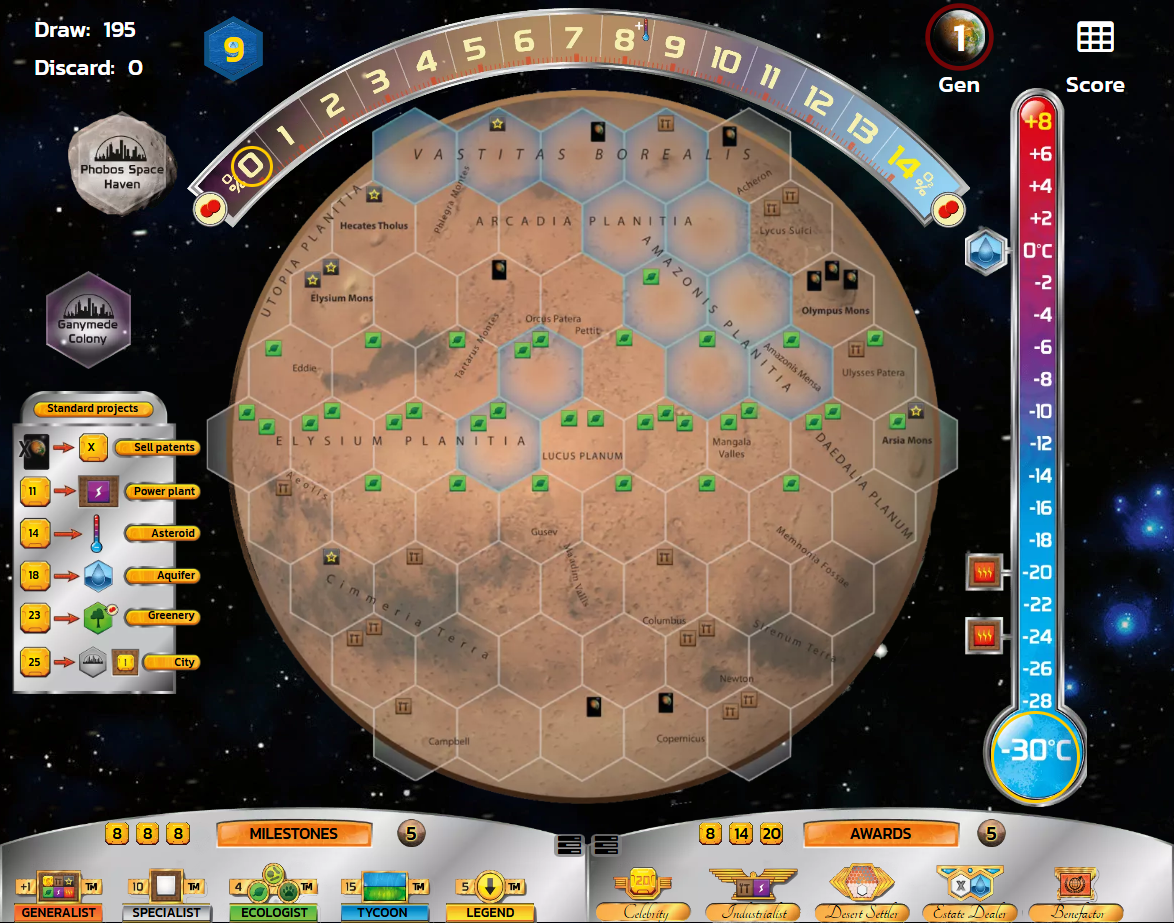
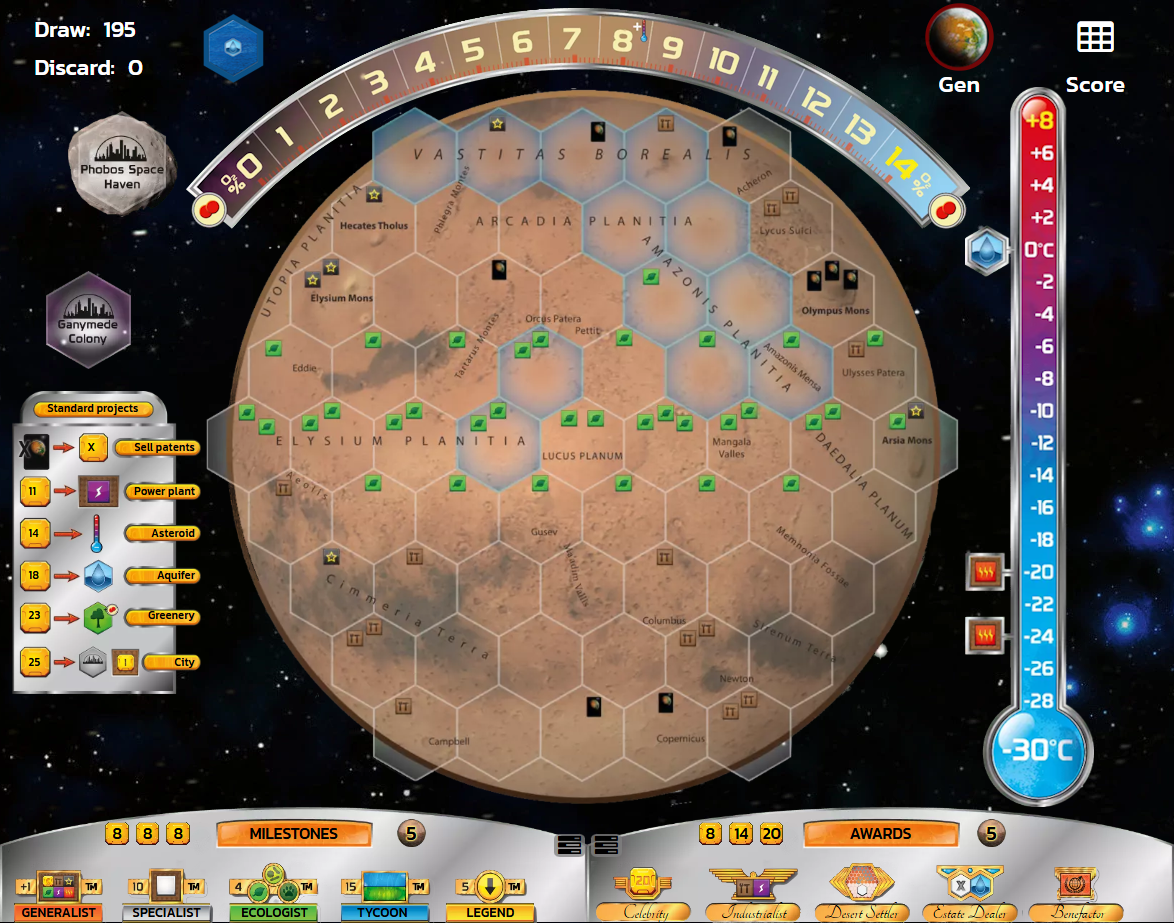
Map Elysium map coordinates for trackers

Changed region(s): [[0.1533, 0.0, 0.9506, 0.8797], [0.7973, 0.0, 0.8586, 0.0607], [0.184, 0.0, 0.2147, 0.091]]

diff --git a/web/src/data/mapOverlays.ts b/web/src/data/mapOverlays.ts
@@ -186,6 +186,81 @@ const overlays: Record<string, MapOverlays> = {
       { name: 'Contractor', cx: 1081, cy: 884 },
     ],
   },
+  Elysium: {
+    offMapTiles: [
+      { name: 'Phobos Space Haven', tileType: 'city', cx: 119, cy: 168 },
+      { name: 'Ganymede Colony', tileType: 'city', cx: 87, cy: 326 },
+    ],
+    trackers: [
+      { key: 'oceans', cx: 232, cy: 48 },
+      { key: 'generation', cx: 958, cy: 38 },
+    ],
+    cubeTrackers: [
+      {
+        key: 'oxygen',
+        minValue: 0,
+        step: 1,
+        positions: [
+          { cx: 248, cy: 170 },
+          { cx: 284, cy: 140 },
+          { cx: 330, cy: 110 },
+          { cx: 376, cy: 84 },
+          { cx: 424, cy: 67 },
+          { cx: 475, cy: 52 },
+          { cx: 524, cy: 46 },
+          { cx: 572, cy: 42 },
+          { cx: 623, cy: 44 },
+          { cx: 673, cy: 51 },
+          { cx: 723, cy: 64 },
+          { cx: 768, cy: 81 },
+          { cx: 816, cy: 104 },
+          { cx: 861, cy: 133 },
+          { cx: 901, cy: 166 },
+        ],
+      },
+      {
+        key: 'temperature',
+        minValue: -30,
+        step: 2,
+        positions: [
+          { cx: 1040, cy: 753 },
+          { cx: 1040, cy: 706 },
+          { cx: 1040, cy: 674 },
+          { cx: 1040, cy: 642 },
+          { cx: 1040, cy: 608 },
+          { cx: 1040, cy: 577 },
+          { cx: 1040, cy: 545 },
+          { cx: 1040, cy: 512 },
+          { cx: 1040, cy: 480 },
+          { cx: 1040, cy: 448 },
+          { cx: 1040, cy: 416 },
+          { cx: 1040, cy: 383 },
+          { cx: 1040, cy: 352 },
+          { cx: 1040, cy: 319 },
+          { cx: 1040, cy: 287 },
+          { cx: 1040, cy: 254 },
+          { cx: 1040, cy: 222 },
+          { cx: 1040, cy: 189 },
+          { cx: 1040, cy: 158 },
+          { cx: 1040, cy: 125 },
+        ],
+      },
+    ],
+    milestones: [
+      { name: 'Generalist', cx: 59, cy: 889 },
+      { name: 'Specialist', cx: 161, cy: 889 },
+      { name: 'Ecologist', cx: 272, cy: 889 },
+      { name: 'Tycoon', cx: 385, cy: 889 },
+      { name: 'Legend', cx: 488, cy: 889 },
+    ],
+    awards: [
+      { name: 'Celebrity', cx: 643, cy: 889 },
+      { name: 'Industrialist', cx: 751, cy: 889 },
+      { name: 'Desert Settler', cx: 860, cy: 889 },
+      { name: 'Estate Dealer', cx: 968, cy: 889 },
+      { name: 'Benefactor', cx: 1076, cy: 889 },
+    ],
+  },
 };
 
 export function getMapOverlays(mapName: string): MapOverlays {

diff --git a/web/src/components/replay/PlayerCard.tsx b/web/src/components/replay/PlayerCard.tsx
@@ -286,7 +286,6 @@ export const PlayerCard = memo(function PlayerCard({
             {elo != null && (
               <span className="text-base text-slate-400 flex-shrink-0">({elo})</span>
             )}
-            <img src={startingPlayerImg} alt="1st" className={`w-9 h-9 flex-shrink-0 ${isStartingPlayer ? '' : 'invisible'}`} />
           </div>
           <div className="text-base text-slate-400 truncate">{corporation}</div>
         </div>
@@ -297,6 +296,8 @@ export const PlayerCard = memo(function PlayerCard({
       <div className="flex items-center gap-2.5 mt-3 pt-2.5 border-t border-white/5">
         <img src={getCardPlaceholderImage()} alt="Cards" className="w-8 h-11 object-cover rounded-sm opacity-60" />
         <span className="text-xl font-semibold text-white">{hand.length}</span>
+        <div className="flex-1" />
+        <img src={startingPlayerImg} alt="1st" className={`w-9 h-9 flex-shrink-0 ${isStartingPlayer ? '' : 'invisible'}`} />
       </div>
     </div>
   );
